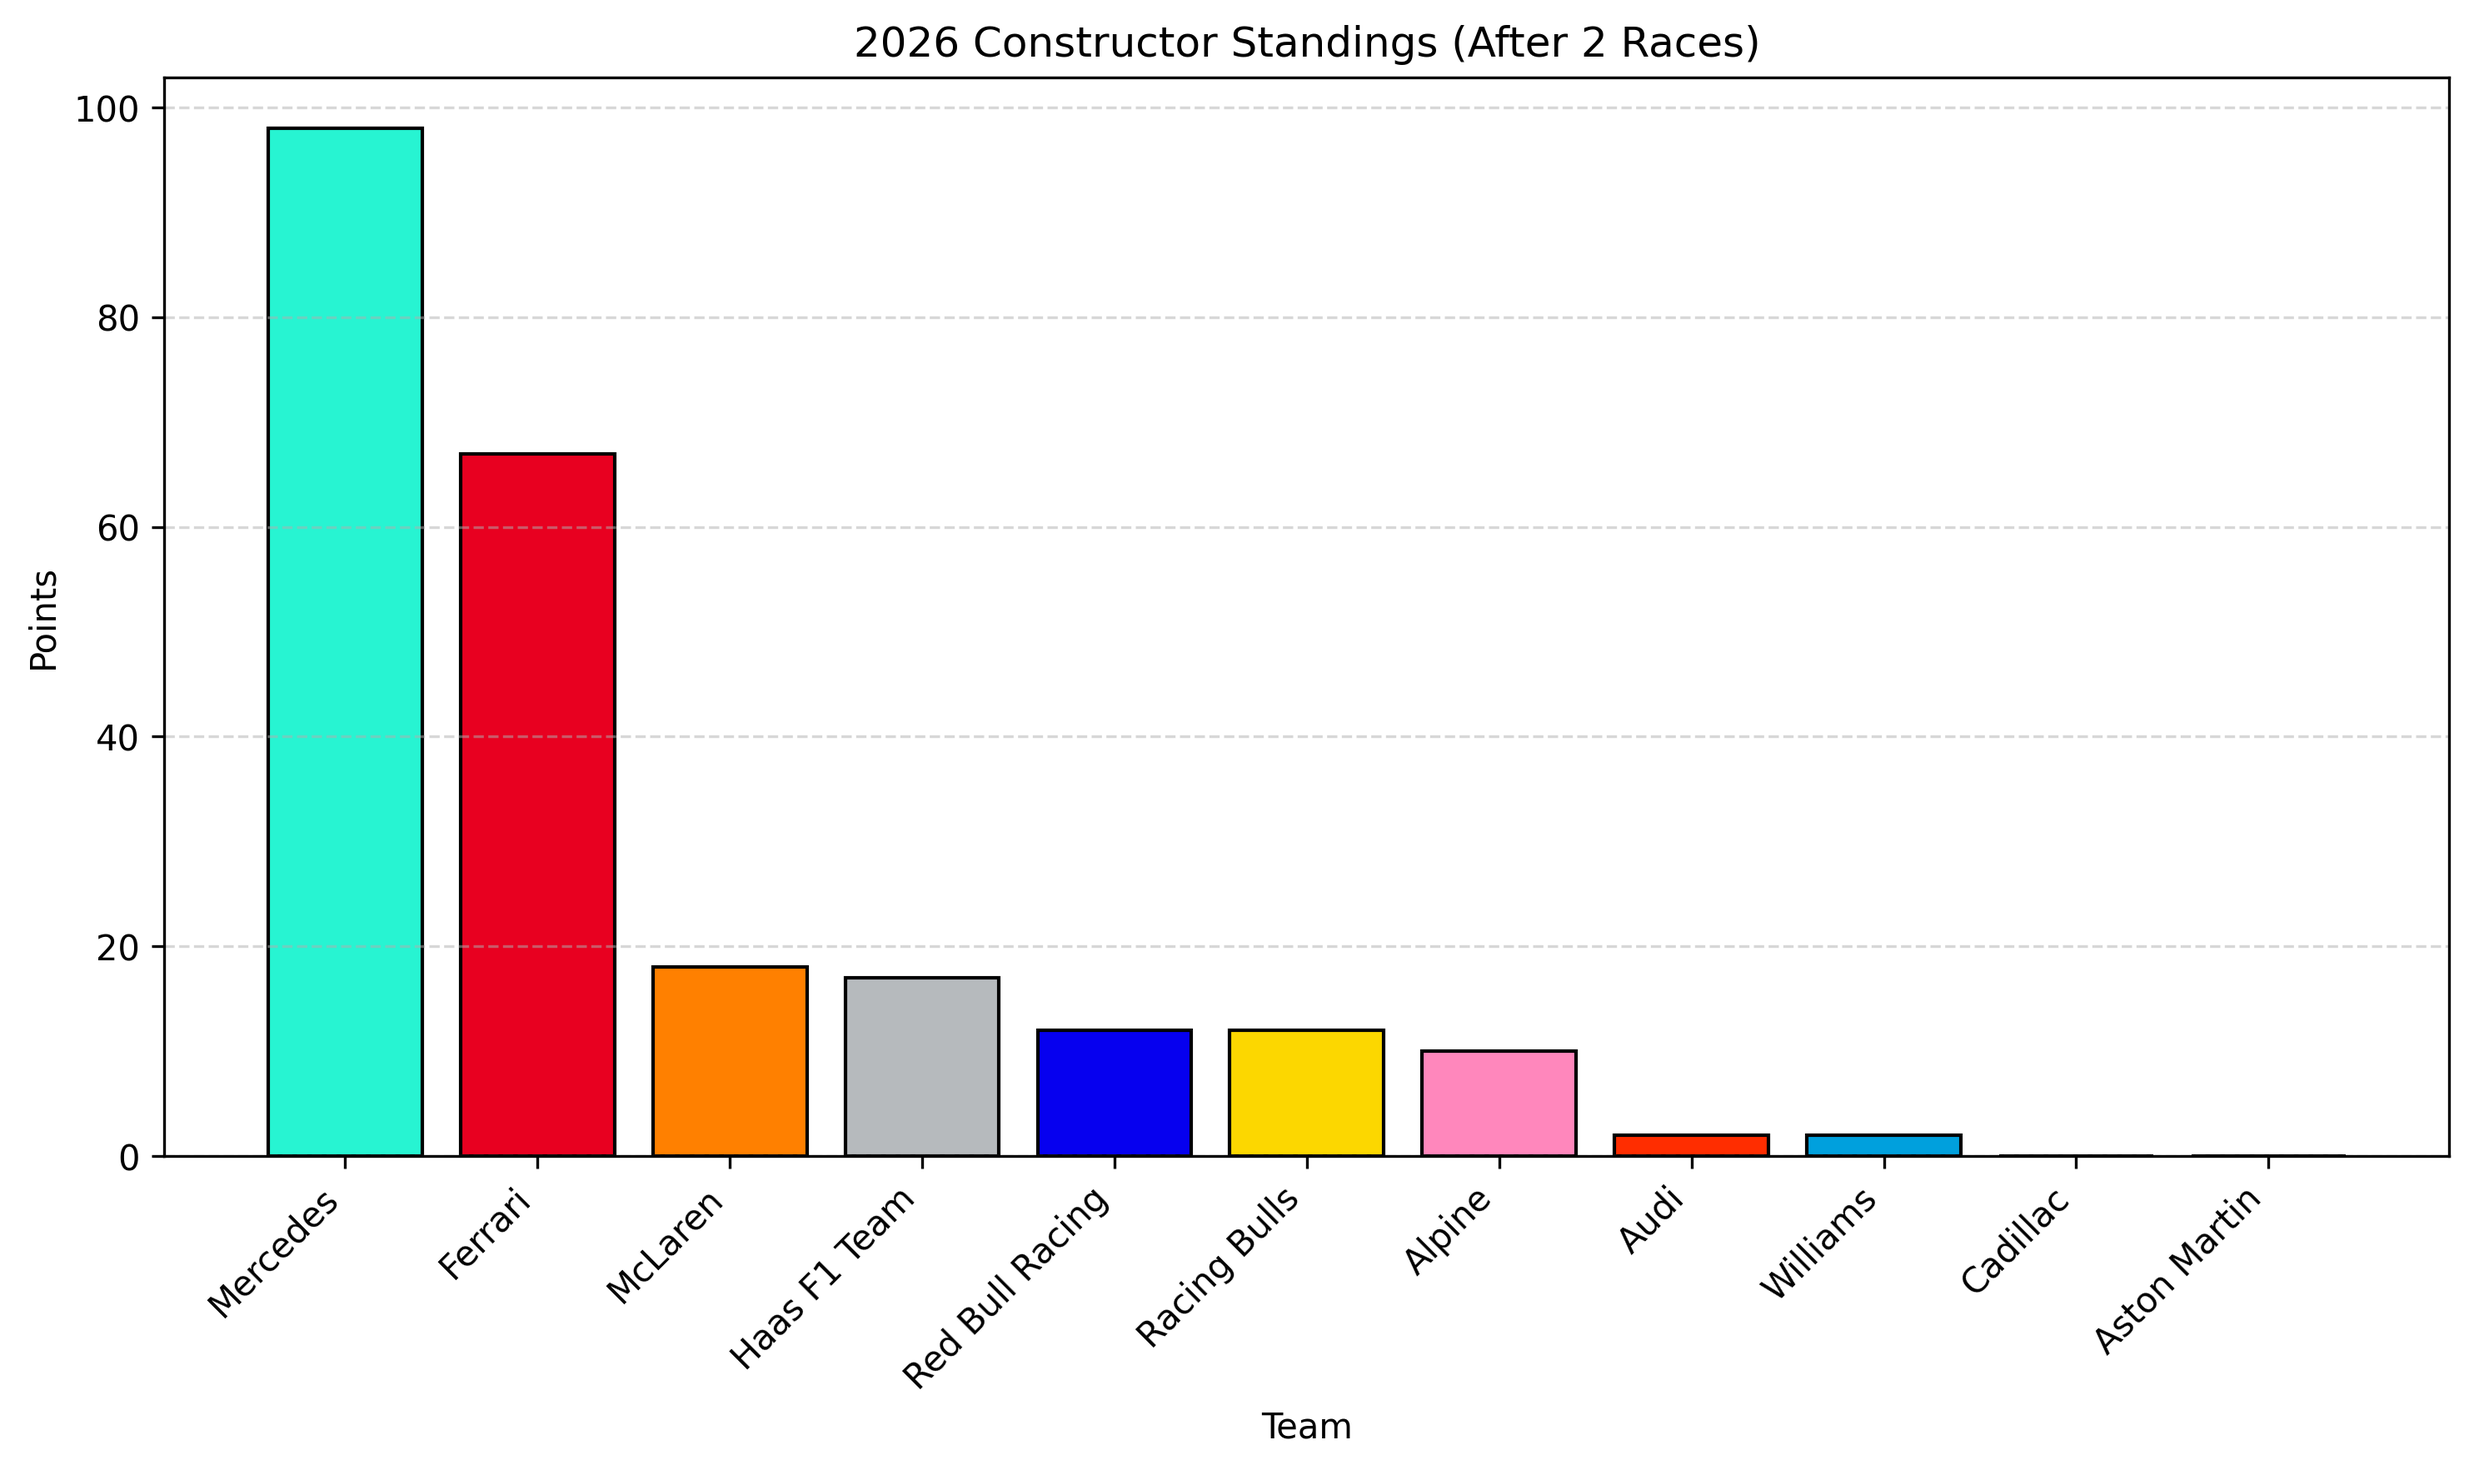
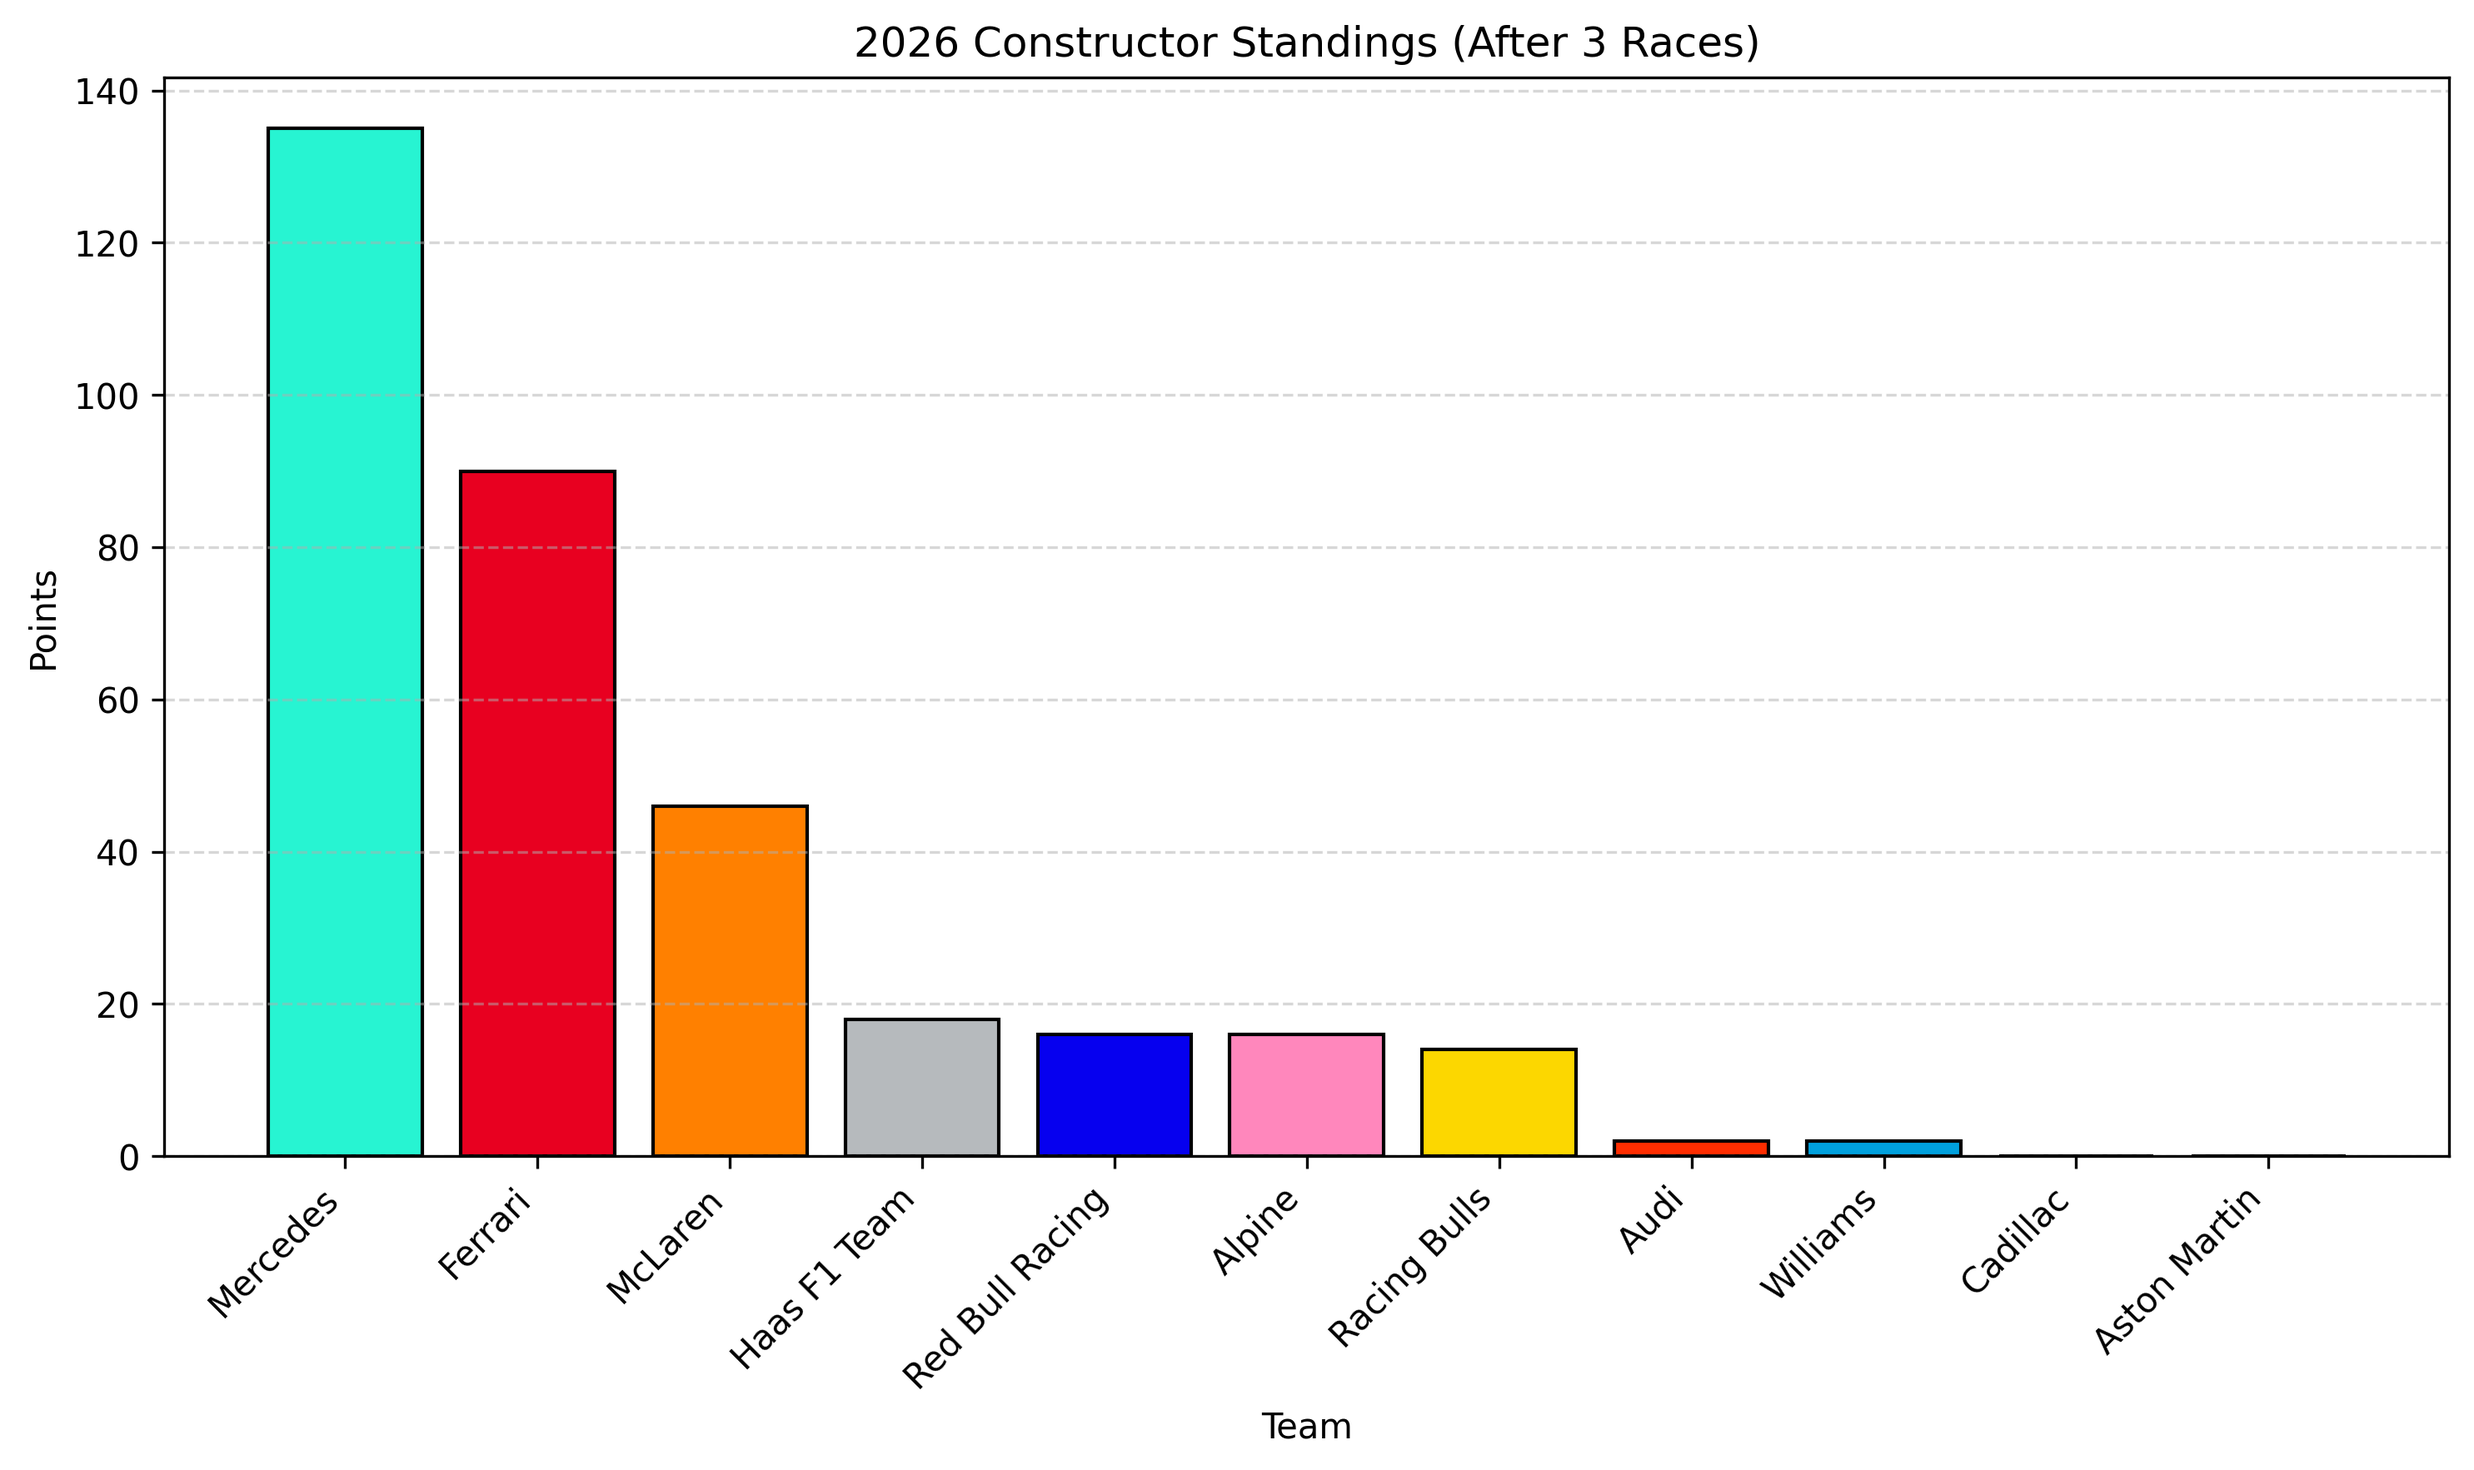
Updated points and resume after Japan GP

diff --git a/2026/plot_points.py b/2026/plot_points.py
@@ -13,7 +13,7 @@ from collections import defaultdict
 # USER SETTINGS
 ################################################################
 
-num_gp = 2  # scalable
+num_gp = 3  # scalable
 
 ################################################################
 # PATH AND DATA LOADING

diff --git a/2026/README.md b/2026/README.md
@@ -12,13 +12,13 @@ Here are shown some general informations about the season:
 
 This section will be updated weekly with the results of each Grand Prix, including the winner and cumulative points for Drivers.
 
-This table below will be filled with the winner of each GP. In addiction to this, a cumulative points graph will br e added to show the progression of the championship battle throughout the season.
+This table below will be filled with the winner of each GP. In addiction to this, a cumulative points graph will be added to show the progression of the championship battle throughout the season.
 
 | Round | Grand Prix          | Date        | Winner    |
 | :---- | :------------------ | :---------- | :-------- |
 | 1     | Australian GP       | 08 Mar 2026 | Russel    |
 | 2     | Chinese GP          | 15 Mar 2026 | Antonelli |
-| 3     | Japanese GP         | 29 Mar 2026 | TBD       |
+| 3     | Japanese GP         | 29 Mar 2026 | Antonelli |
 | 4     | Bahrain GP          | 12 Apr 2026 | TBD       |
 | 5     | Saudi Arabian GP    | 19 Apr 2026 | TBD       |
 | 6     | Miami GP            | 03 May 2026 | TBD       |
@@ -52,13 +52,15 @@ This table below shows the cumulative points for few selected drivers. it will b
 
 | Driver                | Team     | Points |
 | --------------------- | -------- | ------ |
-| George Russell        | Mercedes | 51     |
-| Andrea Kimi Antonelli | Mercedes | 47     |
-| Charles Leclerc       | Ferrari  | 34     |
-| Lewis Hamilton        | Ferrari  | 33     |
-| Lando Norris          | McLaren  | 15     |
-| Max Verstappen        | Red Bull | 8      |
-| Oscar Piastri         | McLaren  | 3      |
+| Andrea Kimi Antonelli | Mercedes | 72     |
+| George Russell        | Mercedes | 63     |
+| Charles Leclerc       | Ferrari  | 49     |
+| Lewis Hamilton        | Ferrari  | 41     |
+| Lando Norris          | McLaren  | 25     |
+| Oscar Piastri         | McLaren  | 21     |
+| Max Verstappen        | Red Bull | 12     |
+| Isack Hadjar          | Red Bull | 4      |
+
 
 With respect to last season, due to the changing FIA regulations, Max Verstappen is not been able to dominate the championship as he did in the previous years. Also Oscar Piastri and Lando Norris, who dominated the 2025 season, with a strong McLaren car, have not been able to keep up with the pace of the Mercedes and Ferrari cars.
 George Russell and Andrea Kimi Antonelli are showing a strong performance, leading the championship battle. Charles Leclerc and Lewis Hamilton are also closely following, making the 2026 season highly competitive and exciting to watch.
